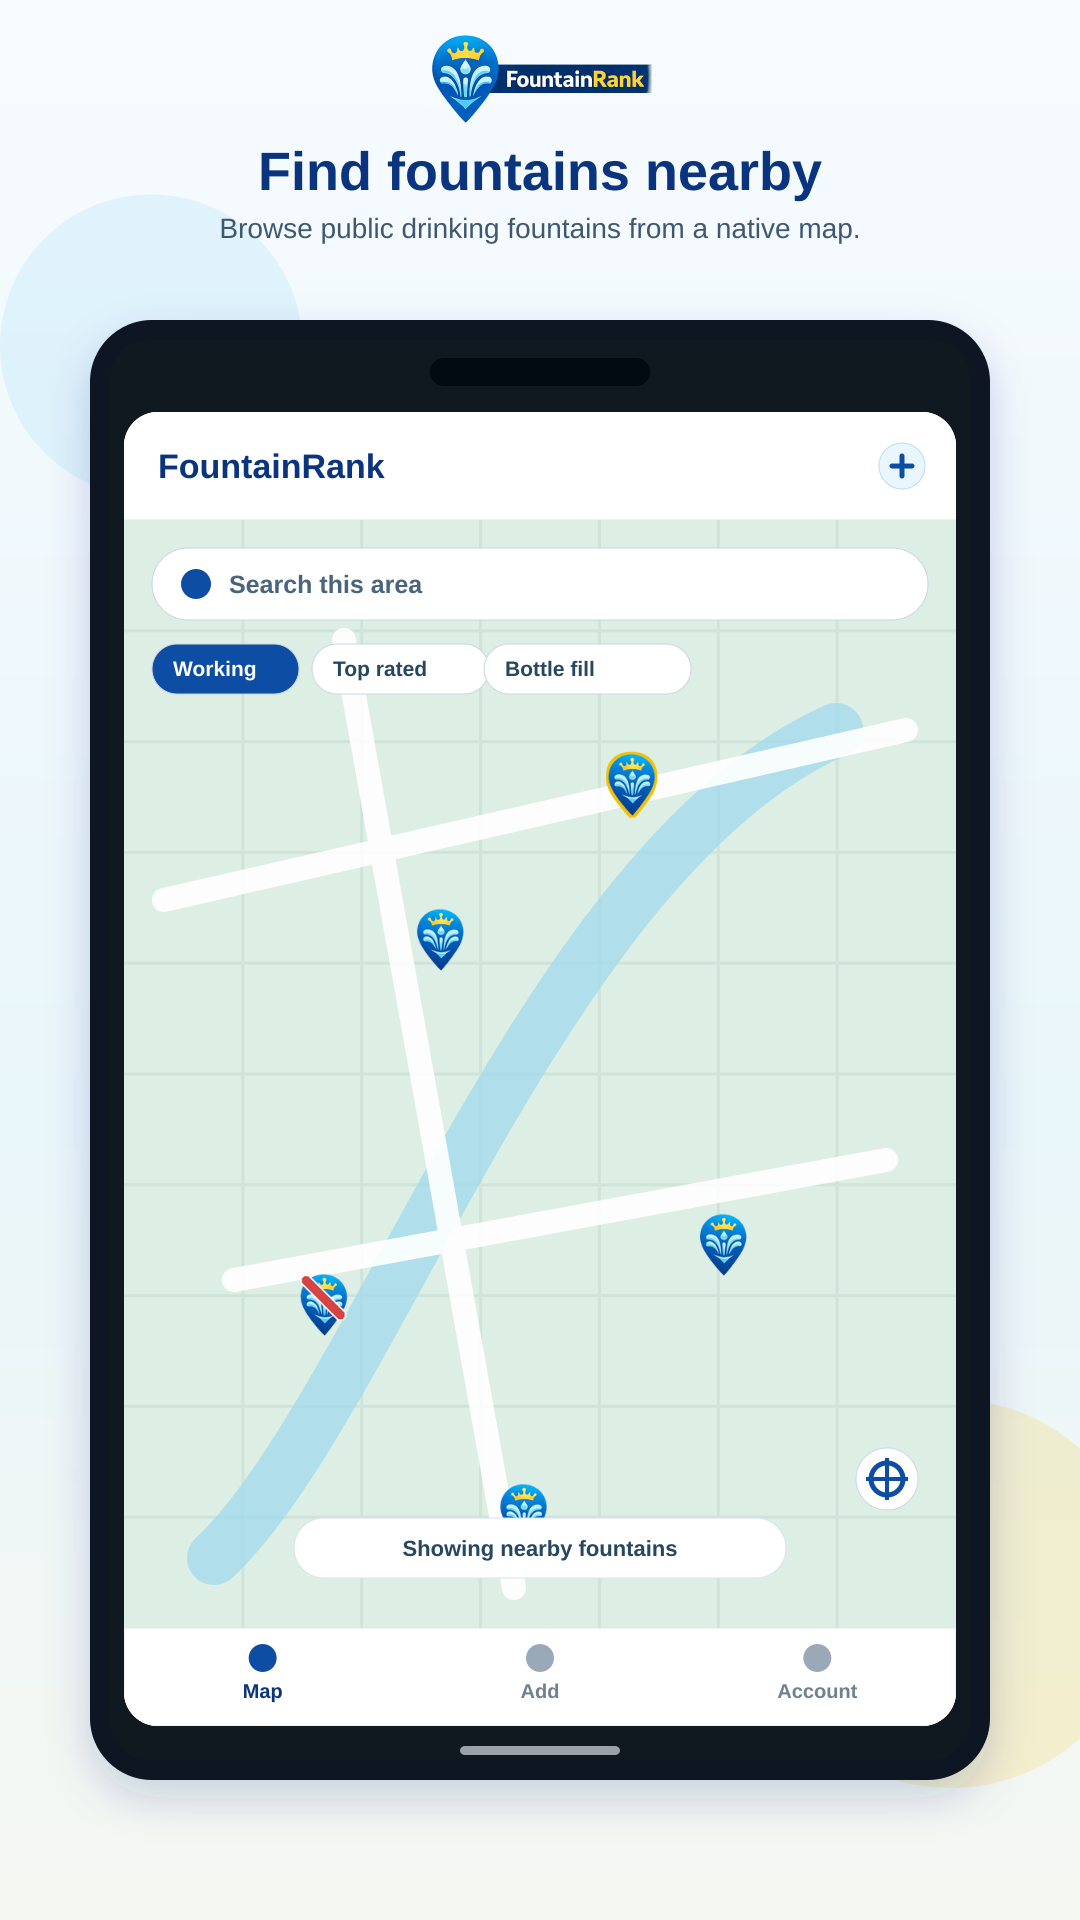
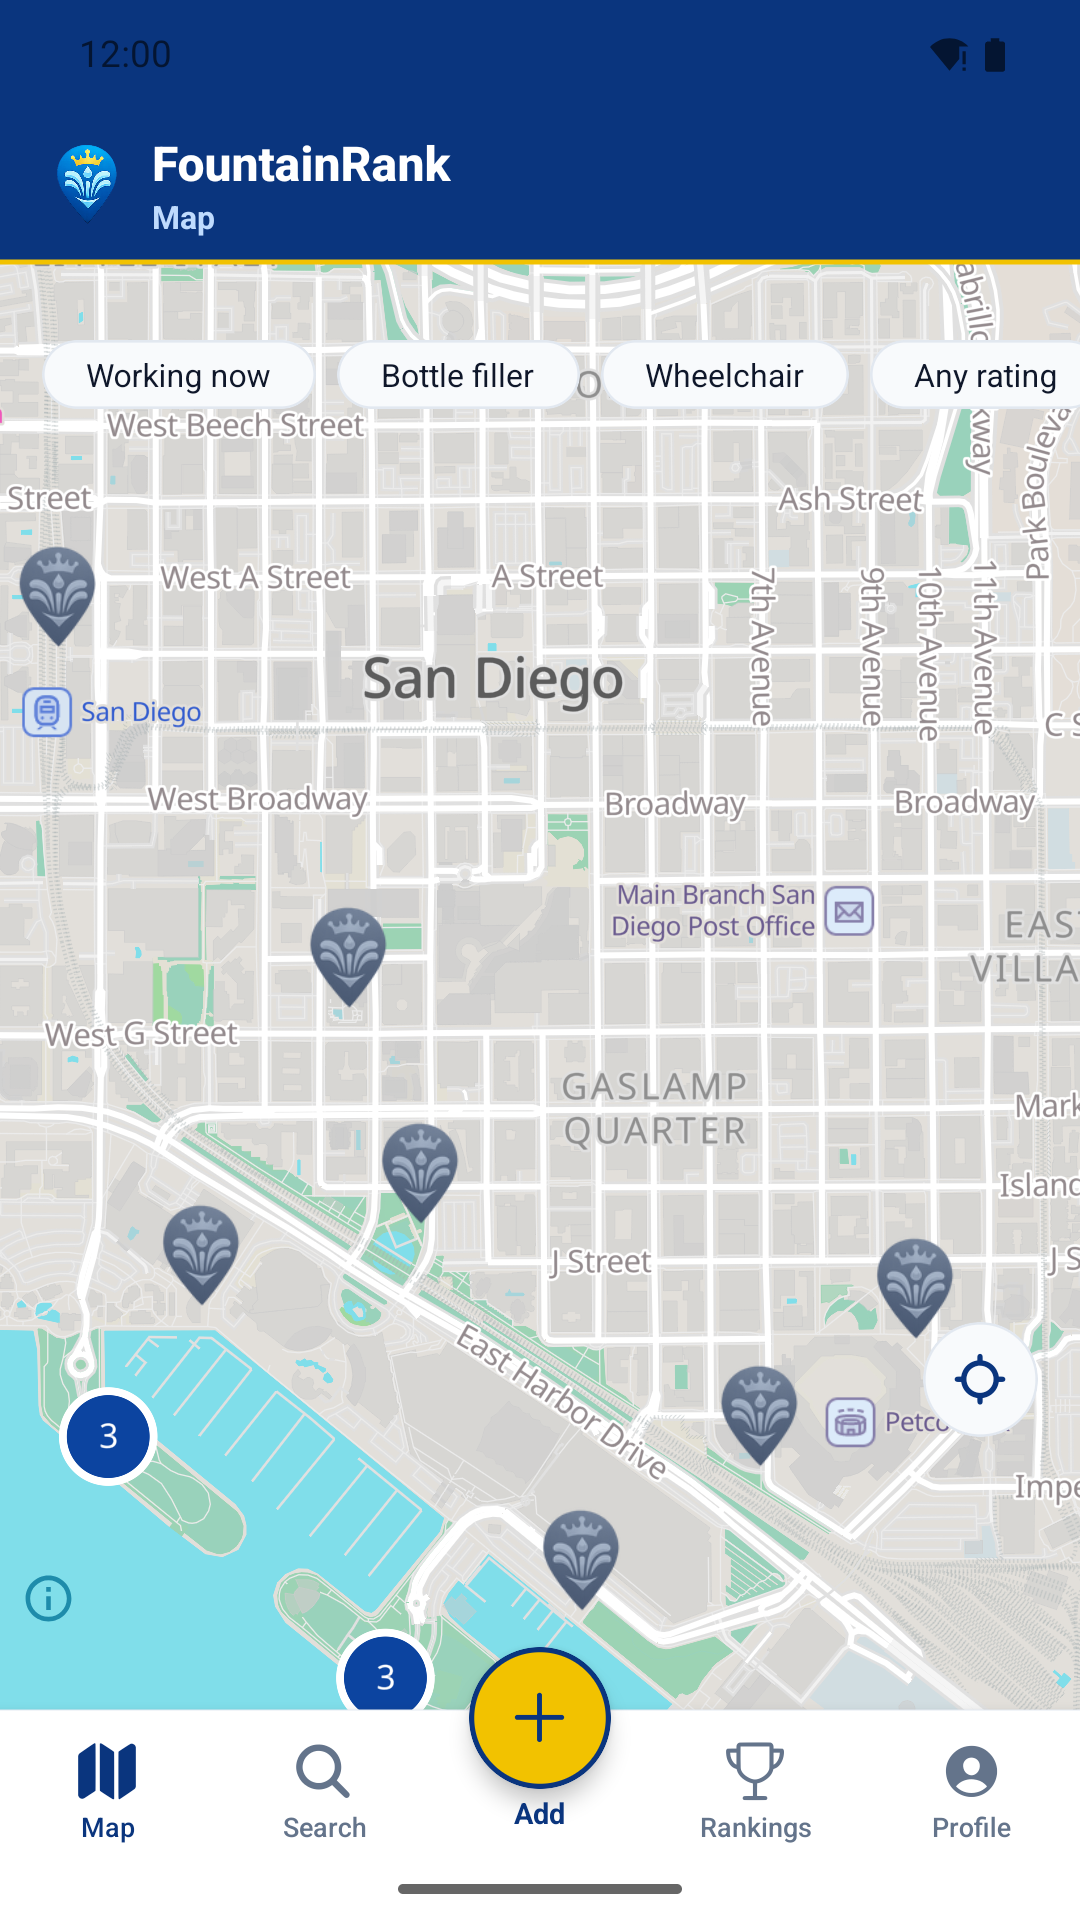
chore(mobile): real Android store screenshots (play-store) (#148)
Replace the generated play-store mockups with literal captures of the
release-config app running on an Android emulator (San Diego basemap,
production API, 1080x1920 RGB, clean status bar): map discovery,
fountain detail (ratings/features/accessibility), address/city search,
rating filter (3-star+), and rankings.

These map/search/detail-view/rankings screens are public-read, so the
captures are pixel-identical to the production store build. Rating and
ranking values shown are from seed/test accounts.

The App Store 6.9"/6.5" sets remain generated mockups pending real
iPhone captures (no macOS in the build environment). Update the
screenshots README and 07-mobile-store-readiness doc to reflect the
Android-real / iOS-mockup split and document the capture recipe.

diff --git a/mobile/assets/store/screenshots/README.md b/mobile/assets/store/screenshots/README.md
@@ -1,8 +1,16 @@
 # Store screenshots
 
 This directory contains owner-reviewable screenshot assets for the first
-FountainRank store submissions. They are generated from the committed
-FountainRank logo/pin assets and current mobile app flows.
+FountainRank store submissions.
+
+- **`play-store/` (Android): real device captures.** Taken from the release-config
+  app running on an Android emulator (San Diego basemap, production API), status
+  bar in demo mode, at Google Play's `1080x1920` phone size. These reflect the
+  shipped native UI.
+- **`app-store-6-9/` and `app-store-6-5/` (iOS): generated mockups.** Still built
+  from the committed FountainRank logo/pin assets by
+  `scripts/generate-store-screenshots.mjs`, pending real iPhone captures (no macOS
+  in the build environment, so the iOS simulator cannot be driven here).
 
 ## App Store Connect
 
@@ -36,13 +44,13 @@ portrait size and `1242x2688` as an accepted 6.5" portrait size:
 
 Upload the PNGs in `play-store/` to the Phone screenshots section:
 
-| File                                    | Size              | Screen                  |
-| --------------------------------------- | ----------------- | ----------------------- |
-| `play-store/01-map-discovery.png`       | 1080x1920 RGB PNG | Map discovery           |
-| `play-store/02-fountain-detail.png`     | 1080x1920 RGB PNG | Fountain detail         |
-| `play-store/03-contribute.png`          | 1080x1920 RGB PNG | Contribution flow       |
-| `play-store/04-add-fountain.png`        | 1080x1920 RGB PNG | Add fountain            |
-| `play-store/05-account-diagnostics.png` | 1080x1920 RGB PNG | Account and diagnostics |
+| File                                | Size              | Screen                                             |
+| ----------------------------------- | ----------------- | -------------------------------------------------- |
+| `play-store/01-map-discovery.png`   | 1080x1920 RGB PNG | Map discovery (San Diego, pins + clusters)         |
+| `play-store/02-fountain-detail.png` | 1080x1920 RGB PNG | Fountain detail (ratings, features, accessibility) |
+| `play-store/03-search.png`          | 1080x1920 RGB PNG | Address/city search + geocode results              |
+| `play-store/04-rating-filter.png`   | 1080x1920 RGB PNG | Map filtered by rating (3★+)                       |
+| `play-store/05-rankings.png`        | 1080x1920 RGB PNG | Contributor rankings / leaderboard                 |
 
 Google Play accepts `1080x1920` phone screenshots as 24-bit RGB PNGs.
 
@@ -53,20 +61,58 @@ The committed store feature graphic is already cropped to Google's required
 
 ## Review note
 
-These are polished store screenshot mockups based on the current app flows. They
-must accurately match the shipped native build before final public submission.
-Replace them with physical-device captures if the native UI diverges, the store
-reviewer requires literal device screenshots, or owner policy requires captures.
+The `play-store/` PNGs are literal captures of the release-config app and match
+the shipped native UI. The `app-store-6-9/` and `app-store-6-5/` PNGs are still
+generated mockups and must be replaced with real iPhone captures before final
+public submission (see the Android capture recipe below for the equivalent iOS
+flow on a physical device).
+
+The map/search/detail-view/rankings screens are public-read, so the emulator
+captures are pixel-identical to the production store build for those screens.
+Rating and ranking values shown are from seed/test accounts, not organic user
+data.
 
 ## Regeneration
 
-The source generator is `scripts/generate-store-screenshots.mjs`. To regenerate:
+### iOS mockups (`app-store-6-9/`, `app-store-6-5/`)
+
+The source generator is `scripts/generate-store-screenshots.mjs`. Regenerate the
+iOS mockup sets only — **do not** regenerate `play-store/`, which now holds real
+device captures the generator would overwrite with mockups:
 
 ```bash
-rm -rf temp/store-screenshot-build/svg mobile/assets/store/screenshots/app-store-6-9 mobile/assets/store/screenshots/app-store-6-5 mobile/assets/store/screenshots/play-store
+rm -rf temp/store-screenshot-build/svg mobile/assets/store/screenshots/app-store-6-9 mobile/assets/store/screenshots/app-store-6-5
 node scripts/generate-store-screenshots.mjs
-mkdir -p mobile/assets/store/screenshots/app-store-6-9 mobile/assets/store/screenshots/app-store-6-5 mobile/assets/store/screenshots/play-store
+mkdir -p mobile/assets/store/screenshots/app-store-6-9 mobile/assets/store/screenshots/app-store-6-5
 pnpm dlx sharp-cli -i 'temp/store-screenshot-build/svg/app-store-6-9/*.svg' -o mobile/assets/store/screenshots/app-store-6-9 -f png --density 72 flatten '#ffffff' -- toColourspace srgb
 pnpm dlx sharp-cli -i 'temp/store-screenshot-build/svg/app-store-6-5/*.svg' -o mobile/assets/store/screenshots/app-store-6-5 -f png --density 72 flatten '#ffffff' -- toColourspace srgb
-pnpm dlx sharp-cli -i 'temp/store-screenshot-build/svg/play-store/*.svg' -o mobile/assets/store/screenshots/play-store -f png --density 72 flatten '#ffffff' -- toColourspace srgb
 ```
+
+### Android real captures (`play-store/`)
+
+Captured from a **release-config** build of the app installed on an Android
+emulator (the map is a native module, so a dev-client/release build is required —
+not Expo Go). With the app installed and `adb` on `PATH`:
+
+```bash
+# Play's phone size + GPS in a fountain-dense area (San Diego = 360+ fountains)
+adb shell wm size 1080x1920
+adb emu geo fix -117.162 32.715
+adb shell pm grant com.redducklabs.fountainrank android.permission.ACCESS_FINE_LOCATION
+
+# Clean status bar (demo mode: 12:00, full battery/wifi, no notifications)
+adb shell settings put global sysui_demo_allowed 1
+adb shell am broadcast -a com.android.systemui.demo -e command enter
+adb shell am broadcast -a com.android.systemui.demo -e command clock -e hhmm 1200
+adb shell am broadcast -a com.android.systemui.demo -e command battery -e level 100 -e plugged false
+adb shell am broadcast -a com.android.systemui.demo -e command network -e wifi show -e level 4 -e fully true
+adb shell am broadcast -a com.android.systemui.demo -e command notifications -e visible false
+
+# Navigate to each screen, then capture (repeat per screen)
+adb exec-out screencap -p > shot.png
+```
+
+Raw `screencap` PNGs are RGBA; flatten to 24-bit RGB (e.g. Pillow, white
+background) before committing. The same navigate-and-capture flow applies to a
+physical iPhone (use its native screenshot, then confirm the size matches an
+accepted App Store slot).

diff --git a/docs/setup/07-mobile-store-readiness.md b/docs/setup/07-mobile-store-readiness.md
@@ -110,8 +110,10 @@ create the app record.
    summary into the Play release's "What's new" field afterward; it is not required.
 7. Add tester email lists and opt-in links in Play Console.
 8. Upload the owner-reviewed phone screenshots from
-   `mobile/assets/store/screenshots/play-store/`, or replace them with real
-   native build captures before final submission if required.
+   `mobile/assets/store/screenshots/play-store/`. These are real captures of the
+   release-config app on an Android emulator (San Diego basemap, production API),
+   `1080x1920`, covering map discovery, fountain detail, address/city search,
+   rating filter, and rankings.
 
 Google references:
 
@@ -146,7 +148,7 @@ submission.
 | TestFlight tester instructions | Install the beta, allow or deny location permission, browse the map, open a fountain detail, sign in, submit one existing-fountain contribution, add a fountain or confirm the duplicate path, and report any crash or blocked state with app version/build.                                                                                                                                                                                                        | Review after store build exists.                                                                        |
 | Play tester instructions       | Same as TestFlight, installed through the Play testing opt-in link.                                                                                                                                                                                                                                                                                                                                                                                                 | Review after store build exists.                                                                        |
 | Store release notes            | Generated by `.github/workflows/mobile-store-release.yml` from squash-merged PR subjects in the release range and printed in the run summary. Both stores need a manual paste: EAS hosted submission only sets the TestFlight changelog on the Enterprise plan, so the owner pastes the notes into TestFlight "What to Test"; Android auto-publishes to internal testing (`releaseStatus: completed`) without notes; optionally add them in Play Console afterward. | Confirm the notes match the PRs included in the released build.                                         |
-| Screenshots                    | Generated owner-reviewable mockups are committed under `mobile/assets/store/screenshots/`: App Store 6.9" files are `1290x2796` RGB PNGs, App Store 6.5" files are `1242x2688` RGB PNGs, and Play files are `1080x1920` RGB PNGs. They cover map discovery, fountain detail, contribution, add-fountain, and account/diagnostics.                                                                                                                                   | Review in the consoles; replace with real native build captures before final submission if required.    |
+| Screenshots                    | `mobile/assets/store/screenshots/play-store/` holds **real device captures** (release-config app on the Android emulator, San Diego, `1080x1920`): map discovery, fountain detail, address/city search, rating filter, rankings. The App Store 6.9" (`1290x2796`) and 6.5" (`1242x2688`) sets are still **generated mockups** pending real iPhone captures (no macOS in the build env). Rating/ranking values shown are seed/test data.                             | Review in the consoles. Replace the iOS mockups with physical-device captures before final submission.  |
 | App icon / splash              | Generated from `docs/logos/512-pin.png` and committed under `mobile/assets/`; wired in `mobile/app.config.ts`.                                                                                                                                                                                                                                                                                                                                                      | Review in native build; replace from source artwork if sharpness is not acceptable before store upload. |
 
 ## Factual data-flow inventory
@@ -182,9 +184,9 @@ Committed paths:
 | Android adaptive icon foreground | `mobile/assets/adaptive-icon.png`                     | Foreground image for `android.adaptiveIcon.foregroundImage`.                                                                                                         |
 | Splash image                     | `mobile/assets/splash-icon.png`                       | Configured through the SDK-56 `expo-splash-screen` config plugin.                                                                                                    |
 | Play feature graphic             | `mobile/assets/store/play-feature-graphic.png`        | 1024x500 RGB PNG generated from `docs/logos/feature-graphic.png`; review in Play Console before submission.                                                          |
-| App Store 6.9 screenshots        | `mobile/assets/store/screenshots/app-store-6-9/*.png` | 1290x2796 RGB PNGs for the current iPhone 6.9" Display slot in App Store Connect.                                                                                    |
-| App Store 6.5 screenshots        | `mobile/assets/store/screenshots/app-store-6-5/*.png` | 1242x2688 RGB PNGs for the iPhone 6.5" Display slot when App Store Connect prompts for it.                                                                           |
-| Play phone screenshots           | `mobile/assets/store/screenshots/play-store/*.png`    | 1080x1920 RGB PNGs for Google Play phone screenshots.                                                                                                                |
+| App Store 6.9 screenshots        | `mobile/assets/store/screenshots/app-store-6-9/*.png` | 1290x2796 RGB PNGs for the iPhone 6.9" Display slot in App Store Connect. **Generated mockups** — replace with real iPhone captures before final submission.         |
+| App Store 6.5 screenshots        | `mobile/assets/store/screenshots/app-store-6-5/*.png` | 1242x2688 RGB PNGs for the iPhone 6.5" Display slot when App Store Connect prompts for it. **Generated mockups** — replace with real iPhone captures.                |
+| Play phone screenshots           | `mobile/assets/store/screenshots/play-store/*.png`    | 1080x1920 RGB PNGs for Google Play phone screenshots. **Real device captures** (Android emulator, release config, San Diego).                                        |
 
 After the App Store and Google Play listings have public URLs, configure the web deployment with
 `NEXT_PUBLIC_APP_STORE_URL` and/or `NEXT_PUBLIC_GOOGLE_PLAY_URL`. The website footer hides either